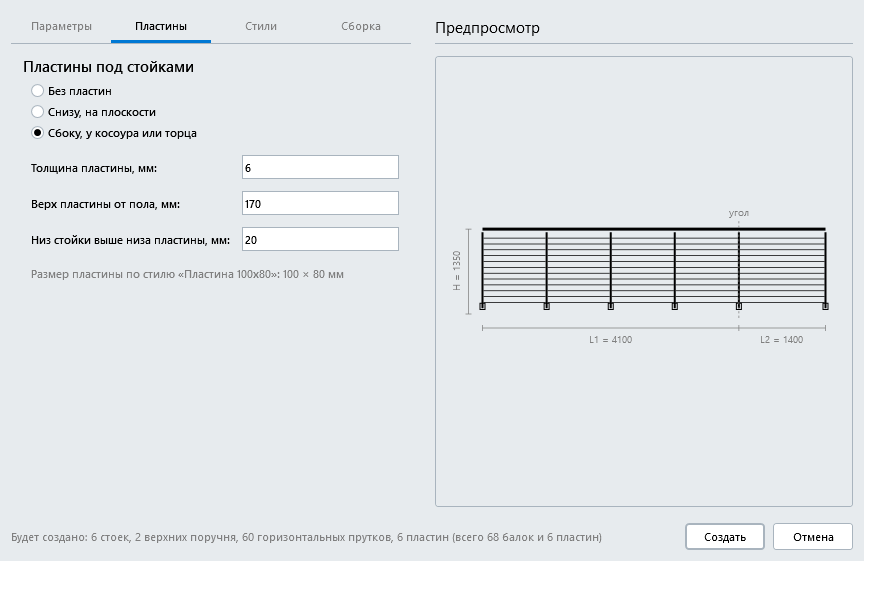
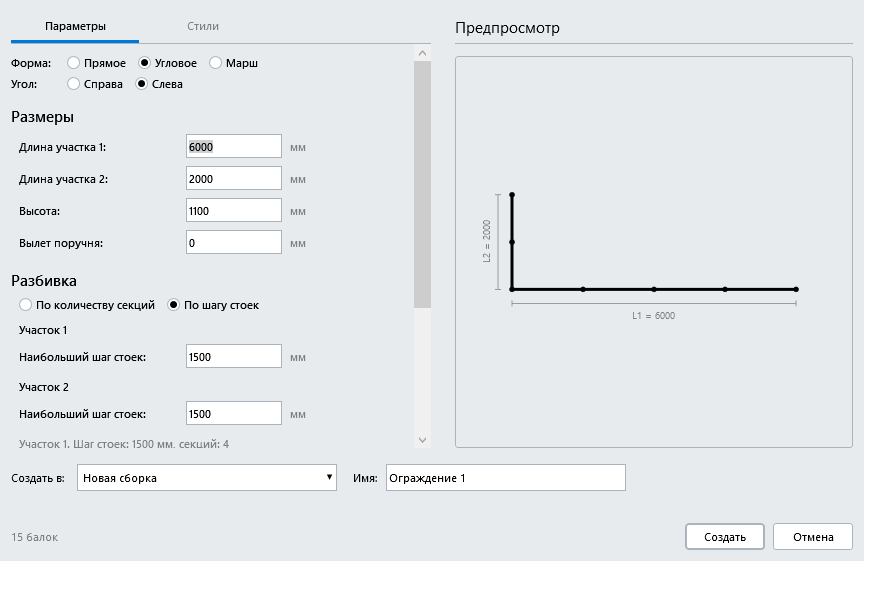
Версия 0.3: марш, угол слева, новое окно
- форма «Марш»: ограждение лестничного марша по длине, высоте и числу ступеней
- угловое ограждение: угол справа или слева
- окно: две вкладки, пластины в «Параметрах», строка «Создать в:» внизу
- «нижний поручень» переименован в «нижнюю перекладину»
- README и скриншоты обновлены

diff --git a/README.md b/README.md
@@ -1,34 +1,41 @@
 # Генератор ограждений для Renga
 
-Плагин для [Renga](https://rengabim.com): создаёт ограждение из балок внутри сборки по заданной схеме — стойки, верхний поручень, нижние поручни, заполнение (вертикальное или горизонтальное) и пластины под стойками — и назначает им выбранные стили балок, стиль пластин и материал. Ограждение можно перестроить с другими параметрами: прежнее удаляется вместе с пластинами, остальные объекты сборки не затрагиваются.
+Плагин для [Renga](https://rengabim.com): создаёт ограждение из балок внутри сборки по заданной схеме — стойки, поручень, нижние перекладины, заполнение и пластины под стойками — для прямого и углового ограждений и для ограждения лестничного марша — и назначает им выбранные стили балок, стиль пластин и материал. Ограждение можно перестроить с другими параметрами: прежнее удаляется вместе с пластинами, остальные объекты сборки не затрагиваются.
 
-Версия 0.2.
+Версия 0.3.
 
 ![Окно «Генератор ограждений»](docs/window-params.png)
 
 > Картинки в этом README - отрисовка окна плагина в тестовом приложении (с условными данными), а не снимки экрана из Renga: в самой Renga у окна есть заголовок и рамка, а списки стилей, материалов и сборок будут вашими.
 
 ## Возможности
-- **Две формы ограждения**: прямое и угловое (Г-образное, угол 90°, два участка со своими длинами).
+- **Три формы ограждения**: прямое, угловое (Г-образное, угол 90°, два участка со своими длинами; угол можно сделать справа или слева) и марш (наклонное ограждение лестничного марша).
+- **Марш**: вводятся длина марша в плане, высота марша и число ступеней (как в инструменте «Лестница»), проступь, подъём и уклон считаются и показываются. Стойки ставятся через заданное число ступеней, наклонный поручень с вылетами внизу и вверху, вертикальный возврат поручня (внизу и/или вверху), две наклонные перекладины с вертикальными торцами, вертикальные прутки между ними и боковые пластины под стойками.
 - **Параметры**: длина (для углового - длины двух участков), высота (до верха поручня), вылет поручня за крайнюю стойку, разбивка на секции - по количеству секций или по наибольшему шагу стоек (шаг выравнивается по длине).
-- **Состав**: сплошной верхний поручень, стойки, нижний поручень кусками между стойками (по желанию, с заданной высотой над полом).
+- **Состав**: сплошной верхний поручень, стойки, нижняя перекладина кусками между стойками (по желанию, с заданной высотой над полом).
 - **Заполнение двух видов**: вертикальное (ряд прутков с заданным шагом, ряд центрируется в каждой секции) и горизонтальное (прутки вдоль ограждения между стойками: задаётся наибольший шаг по высоте, число прутков и точный шаг плагин считает сам и показывает).
 - **Пластины под стойками** (по желанию): «Снизу, на плоскости» (горизонтальная пластина под стойкой) и «Сбоку, у косоура или торца» (вертикальная пластина у боковой грани, стойка примыкает к ней). Размер пластины берётся из выбранного стиля пластины, толщина и (для боковых) высота верха пластины задаются в окне.
-- **Стили и материал**: стили балок для стойки, верхнего поручня, нижнего поручня и заполнения, стиль пластины - из стилей вашего проекта; размеры сечений и пластин плагин читает из стилей сам. Один общий материал для всех балок и пластин (или «Без материала»).
-- **Координаты**: ограждение строится в системе координат сборки от нуля в первой четверти (X и Y не отрицательные). Первый участок идёт вдоль +X, второй участок углового - из конца первого вдоль +Y. Положение сборки в здании задаётся самой сборкой, как обычно в Renga.
-- **Стыки**: на углу верхние поручни стыкует и подрезает сама Renga; концы нижних поручней и горизонтальных прутков плагин ставит по граням стоек, верх вертикального заполнения - под верхним поручнем.
+- **Стили и материал**: стили балок для стойки, верхнего поручня, нижней перекладины и заполнения, стиль пластины - из стилей вашего проекта (стиль нижней перекладины у марша - тот же, что у заполнения); размеры сечений и пластин плагин читает из стилей сам. Один общий материал для всех балок и пластин (или «Без материала»).
+- **Координаты**: ограждение строится в системе координат сборки от нуля в первой четверти (X и Y не отрицательные). Первый участок идёт вдоль +X, второй участок углового - из конца первого (угол справа) или из начала первого (угол слева) вдоль +Y; марш поднимается вдоль +X. Положение сборки в здании задаётся самой сборкой, как обычно в Renga.
+- **Стыки**: на углу верхние поручни стыкует и подрезает сама Renga; концы нижних перекладин и горизонтальных прутков плагин ставит по граням стоек, верх вертикального заполнения - под верхним поручнем.
 - **Куда создавать**: в существующую сборку или в новую (с именем, которое вы зададите в окне).
 - **Перестроение**: если в сборке уже есть ограждение генератора, окно показывает его и подставляет прежние параметры; режим «Заменить» удаляет только объекты плагина (по метке, включая пластины), «Добавить» добавляет новое ограждение рядом. Ограждения, созданные версией 0.1, читаются как «Вертикальное» и «Без пластин».
-- **Предпросмотр** схемы ограждения (развёртка фасада, пластины тонкими контурами) и счётчик «Будет создано: …» обновляются при каждом изменении параметров; при неверном вводе кнопка «Создать» недоступна, причина показана рядом с полем.
+- **Предпросмотр** схемы ограждения (фасад для прямого и марша, вид сверху для углового; пластины тонкими контурами) и счётчик «Будет создано: …» обновляются при каждом изменении параметров; при неверном вводе кнопка «Создать» недоступна, причина показана рядом с полем.
+- **Окно**: две вкладки («Параметры» и «Стили»); строка «Создать в:» внизу: новая или существующая сборка. Enter создаёт, Esc закрывает.
 - **Отмена**: два шага Ctrl+Z (три, если создавалась новая сборка). Итоговое окно подсказывает, сколько раз нажать.
 
-![Пластины](docs/window-plates.png)
+![Марш](docs/window-stair.png)
 
-![Угловое ограждение](docs/window-corner.png)
+![Угловое ограждение, угол слева](docs/window-corner.png)
 
 ![Вкладка «Стили»](docs/window-styles.png)
 
-![Вкладка «Сборка»](docs/window-assembly.png)
+## Что нового в 0.3
+- Форма «Марш»: ограждение лестничного марша по длине, высоте и числу ступеней.
+- Угловое ограждение: угол справа или слева.
+- Окно переработано: две вкладки, пластины внутри «Параметров», строка «Создать в:» внизу, названия «нижняя перекладина» вместо «нижний поручень».
+- Предпросмотр углового ограждения - вид сверху.
+- Ограждения версий 0.1 и 0.2 открываются без изменений.
 
 ## Что нового в 0.2
 - Горизонтальное заполнение как второй вид заполнения.
@@ -42,23 +49,23 @@
 - В проекте должен быть хотя бы один стиль балки (например, «Труба 30х30х3,5»); для пластин - хотя бы один стиль пластины.
 
 ## Установка
-1. Скачайте архив `RailingGenerator-0.2.zip` на странице [Releases](../../releases).
+1. Скачайте архив `RailingGenerator-0.3.zip` на странице [Releases](../../releases).
 2. Закройте Renga.
-3. Распакуйте архив и скопируйте папку `RailingGenerator` в `C:\Program Files\Renga Professional\Plugins\` (потребуются права администратора). При обновлении с 0.1 замените папку `RailingGenerator` целиком.
+3. Распакуйте архив и скопируйте папку `RailingGenerator` в `C:\Program Files\Renga Professional\Plugins\` (потребуются права администратора). При обновлении с 0.1 или 0.2 замените папку `RailingGenerator` целиком.
 4. Запустите Renga: на ленте появится кнопка «Генератор ограждений».
 
 Если кнопки нет, посмотрите журнал `%localappdata%\Renga Software\Renga Professional\AecApp.log`. Журнал самого плагина - `%LOCALAPPDATA%\RailingGenerator\`.
 
 ## Как пользоваться
 1. Откройте проект и нажмите «Генератор ограждений» на ленте.
-2. Вкладка «Параметры»: выберите форму (прямое или угловое), введите длину, высоту, вылет и разбивку, включите нижний поручень и заполнение (вертикальное или горизонтальное). Справа смотрите схему и счётчик.
-3. Вкладка «Пластины»: выберите «Без пластин», «Снизу» или «Сбоку», задайте толщину (и для «Сбоку» - верх пластины).
-4. Вкладка «Стили»: выберите стили балок, стиль пластины и общий материал.
-5. Вкладка «Сборка»: выберите существующую сборку или создайте новую (введите имя). Если в сборке уже есть ограждение генератора, выберите «Заменить» или «Добавить».
-6. Нажмите «Создать». Итоговое окно покажет числа и подскажет, сколько раз нажать Ctrl+Z для отмены.
+2. Вкладка «Параметры»: выберите форму (прямое, угловое или марш), введите размеры (для марша - длину в плане, высоту и число ступеней), вылет и разбивку, включите нижнюю перекладину и заполнение. Ниже - секция «Пластины»: «Без пластин», «Снизу» или «Сбоку» (на марше - только «Сбоку»), толщина и верх пластины. Справа смотрите схему, внизу - счётчик.
+3. Вкладка «Стили»: выберите стили балок, стиль пластины и общий материал.
+4. Внизу в строке «Создать в:» выберите новую сборку (введите имя) или существующую. Если в существующей уже есть ограждение генератора, выберите «Заменить» или «Добавить».
+5. Нажмите «Создать». Итоговое окно покажет числа и подскажет, сколько раз нажать Ctrl+Z для отмены.
 
 ## Известные ограничения
-- Только прямое и угловое (90°) ограждение. Ограждения по ломаной с несколькими углами, по дуге и на лестничных маршах не поддерживаются (маршевые и площадочные ограждения планируются отдельной версией).
+- Прямое, угловое (90°) и ограждение одного лестничного марша. Ограждения по ломаной с несколькими углами, по дуге, на площадках, а также марш вместе с площадкой в одной сборке не поддерживаются (площадки планируются отдельной версией). Марш строится в одну сторону (подъём вдоль +X); левый и правый варианты получаются зеркалированием экземпляра сборки в Renga.
+- На марше пластины только «Сбоку»; нижней перекладины и горизонтального заполнения на марше нет. Положение профиля наклонных балок (поручень, перекладины) относительно линии определяет Renga; на разных проектах проверяйте стык поручня с возвратом глазами.
 - Не создаются промежуточные поручни, решётка (вертикальные и горизонтальные прутки вместе), сплошное заполнение листом или стеклом и анкеры. Марка (`Mark`) объектов не заполняется - её задаёт проектировщик.
 - Один общий материал на все объекты ограждения. Пластина «Сбоку» не уходит ниже нуля по Z.
 - В угловом ограждении с пластинами «Сбоку» пластина угловой стойки может выступать за плоскость соседнего участка (порядка 30-40 мм, зависит от размера пластины).
